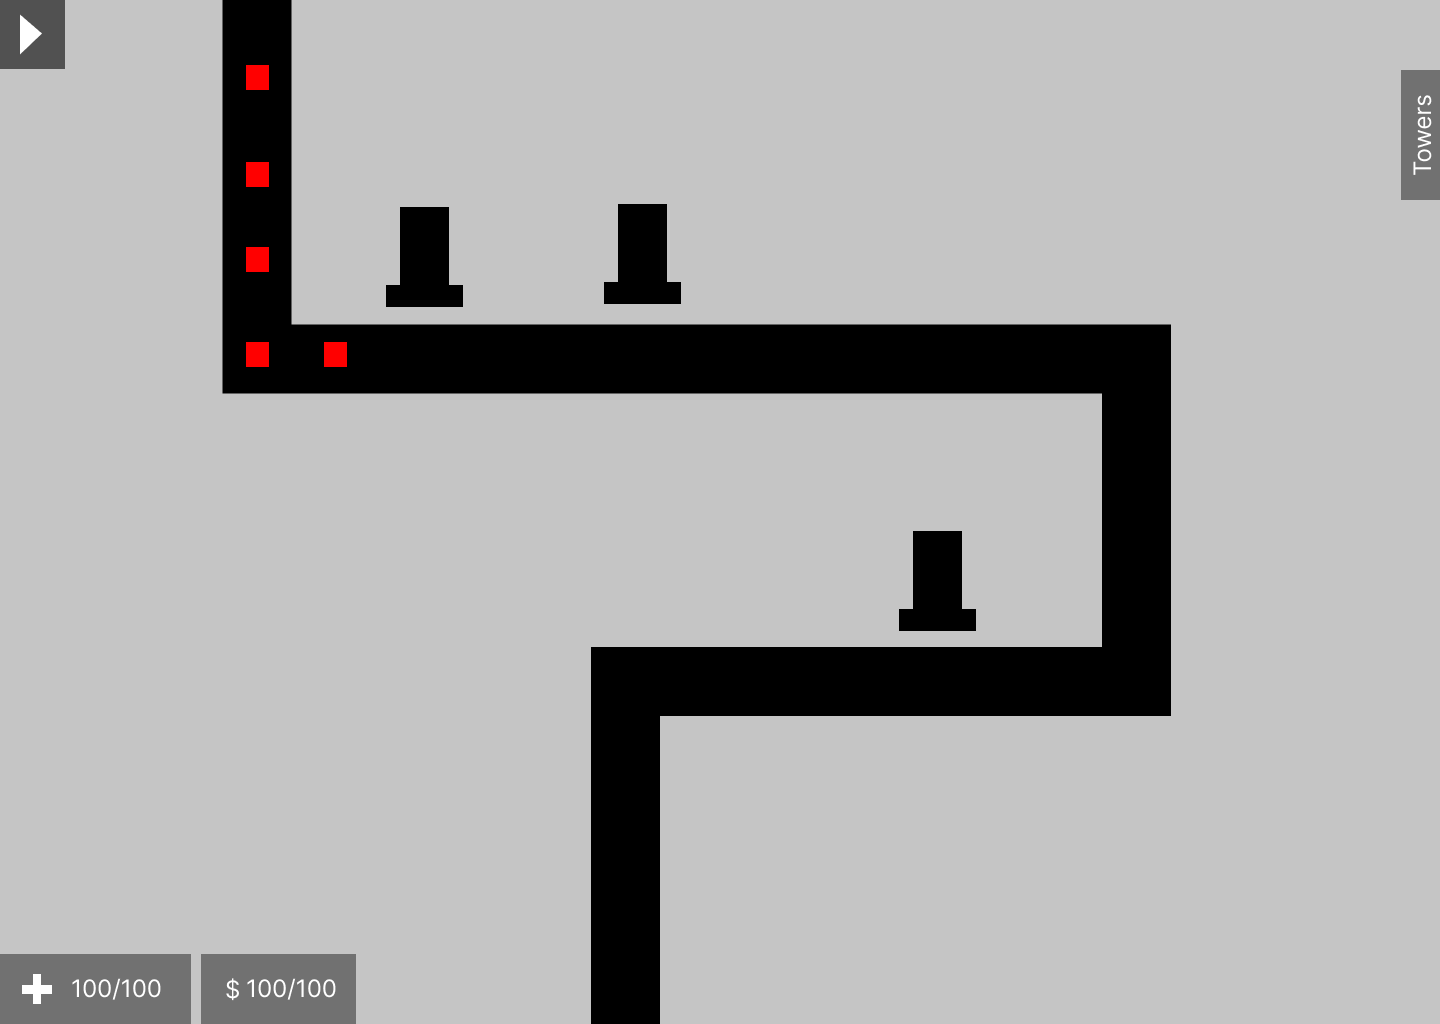
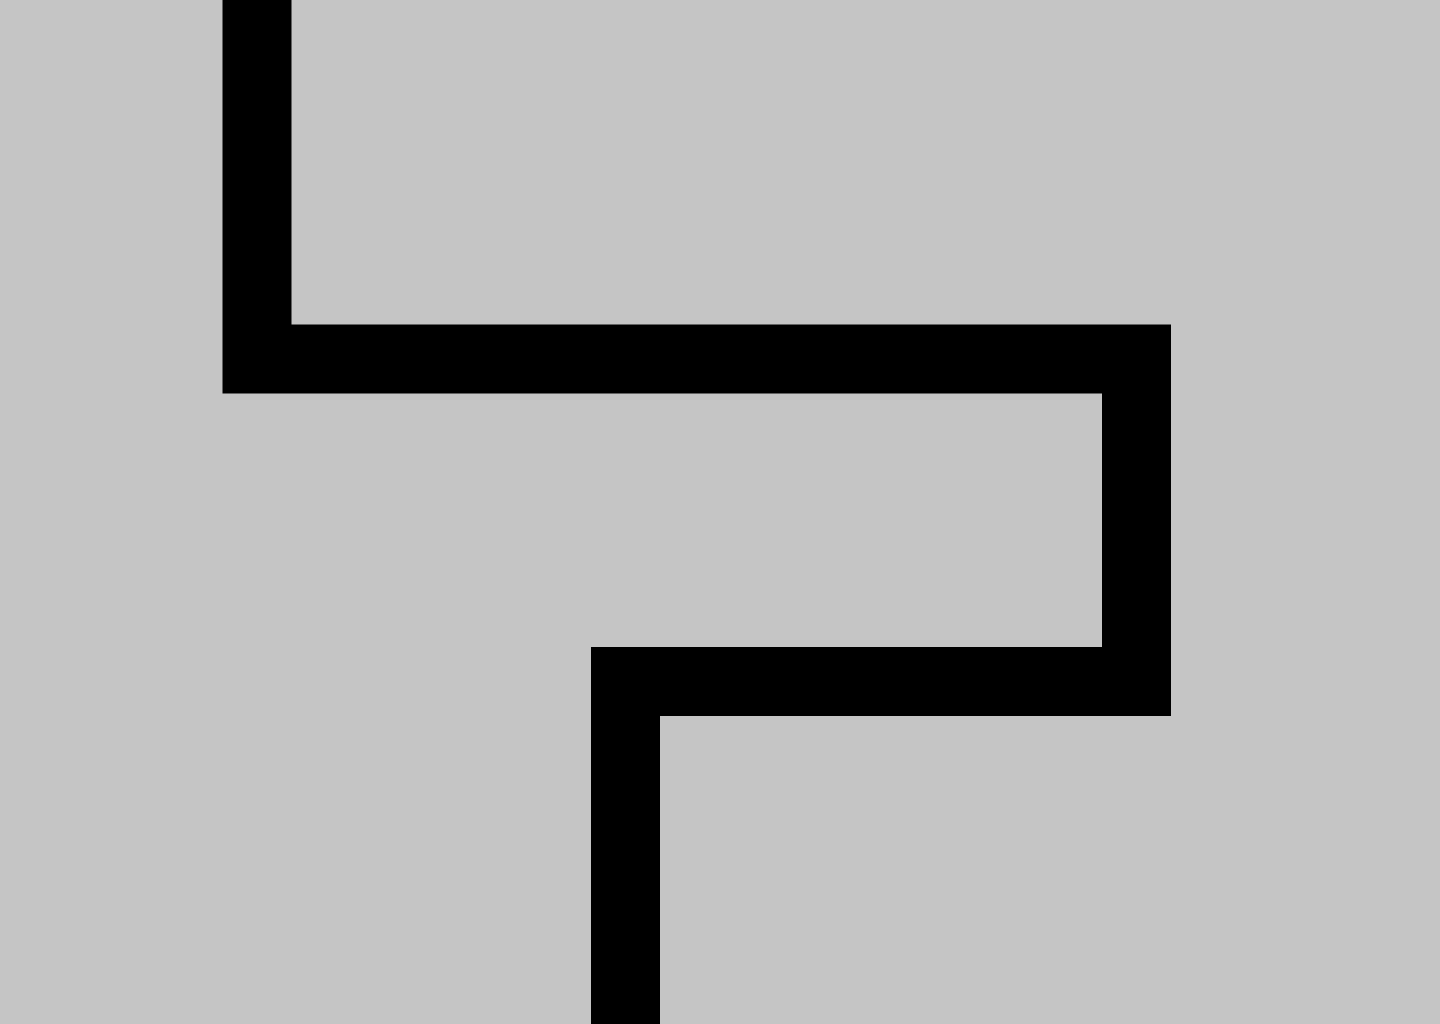
Refactor of main and view. New png.

diff --git a/core/src/main/java/com/IONA/TowerDefense/Main.java b/core/src/main/java/com/IONA/TowerDefense/Main.java
@@ -3,94 +3,44 @@ package com.IONA.TowerDefense;
 import com.IONA.TowerDefense.controller.GameController;
 import com.IONA.TowerDefense.controller.GameUpdater;
 import com.IONA.TowerDefense.model.GameModel;
-import com.IONA.TowerDefense.model.Path;
-import com.IONA.TowerDefense.model.Projectile;
 import com.IONA.TowerDefense.view.Draw;
-import com.IONA.TowerDefense.model.Waves;
 import com.badlogic.gdx.ApplicationAdapter;
-import com.badlogic.gdx.graphics.Texture;
-import com.badlogic.gdx.graphics.g2d.SpriteBatch;
-import com.badlogic.gdx.utils.ScreenUtils;
-import com.badlogic.gdx.graphics.g2d.BitmapFont;
 
-/** {@link com.badlogic.gdx.ApplicationListener} implementation shared by all platforms. */
 public class Main extends ApplicationAdapter {
-    private SpriteBatch batch;
-    private Texture image;
-    private BitmapFont font;
     public GameController controller;
     public GameUpdater updater;
-    public Draw painter;
     public GameModel model;
-    public Path path;
-
+    public Draw painter; // view
 
     @Override
     public void create() {
-
-        //Waves waves = Waves.load();
-        //waves.printAll();
-       // batch = new SpriteBatch();
-       // image = new Texture("libgdx.png");
-       // font = new BitmapFont();
-        path = new Path();
+        model = new GameModel();
         updater = new GameUpdater();
-        model = new GameModel(path);
         painter = new Draw(model);
+        painter.create();
         controller = new GameController(model, painter);
-        batch = new SpriteBatch();
-        image = new Texture("libgdx.png");
-        font = new BitmapFont();
-    }
-
-    @Override
-    public void resize(int width, int height) {
-        // If the window is minimized on a desktop (LWJGL3) platform, width and height are 0, which causes problems.
-        // In that case, we don't resize anything, and wait for the window to be a normal size before updating.
-        if(width <= 0 || height <= 0) return;
-
-        // Resize your application here. The parameters represent the new window size.
     }
 
     @Override
     public void render() {
-        controller.update();
-        updater.update();
-
-        input();
-        logic();
-        draw();
-        ScreenUtils.clear(0.15f, 0.15f, 0.2f, 1f);
-        batch.begin();
-        font.draw(batch,"Tower Defense", 140, 210);
-        batch.end();
-    }
-
-    private void input() {
-
-    }
-
-    private void logic() {
-
-    }
-
-    private void draw() {
-
+        input();    // All input endast
+        logic();    // Uppdatera spelvärlden
+        draw();     // Måla
     }
 
     @Override
-    public void pause() {
-        // Invoked when your application is paused.
-    }
-
-    @Override
-    public void resume() {
-        // Invoked when your application is resumed after pause.
+    public void resize(int w, int h) {
+        if (w <= 0 || h <= 0) return;
+        painter.resize(w, h);
     }
 
     @Override
     public void dispose() {
-        batch.dispose();
-        image.dispose();
+        painter.dispose();
     }
+
+    private void input() { controller.update(); }
+    private void logic() { updater.update(); }
+    private void draw() {  painter.draw(); }
 }
+

diff --git a/core/src/main/java/com/IONA/TowerDefense/view/Draw.java b/core/src/main/java/com/IONA/TowerDefense/view/Draw.java
@@ -2,24 +2,57 @@ package com.IONA.TowerDefense.view;
 
 import com.IONA.TowerDefense.model.GameModel;
 import com.badlogic.gdx.graphics.Texture;
+import com.badlogic.gdx.graphics.g2d.BitmapFont;
+import com.badlogic.gdx.graphics.g2d.SpriteBatch;
+import com.badlogic.gdx.utils.ScreenUtils;
+import com.badlogic.gdx.utils.viewport.FitViewport;
 
 public class Draw {
+    private final GameModel model;
+    private SpriteBatch batch;
+    private Texture image;
+    private BitmapFont font;
+    private Texture BackgroundTexture;
+    private FitViewport viewport;
 
-    GameModel model;
-
-    public Draw(GameModel model){
-
+    public Draw(GameModel model) {
         this.model = model;
 
-
-    };
-
-    public void DrawBackground(){
-
     }
 
-    public void update(){
-
+    public void create() {
+        batch = new SpriteBatch();
+        image = new Texture("libgdx.png");
+        font = new BitmapFont();
+        this.BackgroundTexture = new Texture("ProtBackground.png");
+        viewport = new FitViewport(8,5);
+        // init camera/viewport här om du använder det
     }
 
+    public void resize(int w, int h) {
+        viewport.update(w, h, true);
+        // uppdatera viewport/kamera här om du har en
+    }
+
+    public void draw() {
+        ScreenUtils.clear(0.15f, 0.15f, 0.2f, 1f);
+        viewport.apply();
+        batch.setProjectionMatrix(viewport.getCamera().combined);
+        batch.begin();
+
+
+        batch.draw(BackgroundTexture, 0, 0, viewport.getWorldWidth(), viewport.getWorldHeight());
+
+        // rita saker från modellen: enemies, towers, projektiler, UI ...
+        // for (Enemy e : model.getEnemies()) { batch.draw(enemyTex, e.x, e.y); }
+
+        batch.end();
+    }
+
+    public void dispose() {
+        if (batch != null) batch.dispose();
+        if (image != null) image.dispose();
+        if (font != null) font.dispose();
+        // dispose fler texturer här
+    }
 }

diff --git a/core/src/main/java/com/IONA/TowerDefense/model/Enemy.java b/core/src/main/java/com/IONA/TowerDefense/model/Enemy.java
@@ -1,6 +1,6 @@
 package com.IONA.TowerDefense.model;
 
-import com.IONA.TowerDefense.view.GameFrame;
+//import com.IONA.TowerDefense.view.GameFrame;
 
 import javax.swing.*;
 import java.awt.*;
@@ -10,7 +10,6 @@ import static javax.swing.SwingConstants.*;
 
 public abstract class Enemy{
 
-    protected int dir = 0;
     protected int hp;
     protected int speed;
     protected int gold;
@@ -20,12 +19,12 @@ public abstract class Enemy{
     protected boolean completedPath;
     protected Direction dir;
     protected int segmentIndex = 0;
-    GameModel model;
 
-    public Enemy(int difficulty, GameModel model) {
-        coor = new Point(GameFrame.BORDERSIZE, 7*GameFrame.TILESIZE + GameFrame.BORDERSIZE);
+
+    public Enemy(int difficulty) {
+
         setHitBox();
-        this.model = model;
+
     }
 
     public Rectangle  getHitBox() {
@@ -73,11 +72,11 @@ public abstract class Enemy{
         hitBox = new Rectangle(coor.x + 9, coor.y + 9, 30, 30);
     }
 
-    public int getDir() {
+    public Direction getDir() {
         return dir;
     }
 
-    public void setDir(int dir) {
+    public void setDir(Direction dir) {
         this.dir = dir;
     }
 

diff --git a/core/src/main/java/com/IONA/TowerDefense/model/GameModel.java b/core/src/main/java/com/IONA/TowerDefense/model/GameModel.java
@@ -1,7 +1,7 @@
 package com.IONA.TowerDefense.model;
 
-import com.badlogic.gdx.graphics.Texture;
-import sun.tools.jconsole.Plotter;
+
+//import sun.tools.jconsole.Plotter;
 
 import java.awt.*;
 import java.util.ArrayList;
@@ -15,7 +15,7 @@ public class GameModel {
     private List<Enemy> enemies;
     private List<Projectile> projectiles;
     private Path path;
-    Texture background;
+
 
     private int resources; // Players resources
     private int lives; // Players health
@@ -26,13 +26,12 @@ public class GameModel {
     private boolean towerSelected = false;
     private Tower pendingTower = null;
 
-    public GameModel (Path path) {
+    public GameModel () {
         this.towers = new ArrayList<>();
         this.projectiles = new ArrayList<>();
-        this.path = path;
         this.resources = 100;
         this.score = 0;
-        this.background = new Texture("ProtBackground.png");
+
     }
 
     // Add and remove from list

diff --git a/core/src/main/java/com/IONA/TowerDefense/model/EnemyBasic.java b/core/src/main/java/com/IONA/TowerDefense/model/EnemyBasic.java
@@ -1,21 +1,22 @@
 package com.IONA.TowerDefense.model;
 
-import com.badlogic.gdx.graphics.Texture;
+
 
 import com.badlogic.gdx.Game;
 
 import java.awt.*;
 
-public class EnemyBasic extends Enemy{
-    Texture BasicTexture;
+public class EnemyBasic extends Enemy {
+
+
+
     public EnemyBasic(int difficulty){
-        super(difficulty);
-    public EnemyBasic(int difficulty, GameModel model){
-        super(difficulty, model);
-        hp = 400 + 200*difficulty;
-        speed = 100 + 50*difficulty;
-        gold = 5;
-        this.BasicTexture = new Texture("ProtTower.png");
-        //img
+            super(difficulty);
+            hp = 400 + 200 * difficulty;
+            speed = 100 + 50 * difficulty;
+            gold = 5;
+
+            //img
+        }
     }
-}
+

diff --git a/core/src/main/java/com/IONA/TowerDefense/model/Collisiongrid.java b/core/src/main/java/com/IONA/TowerDefense/model/Collisiongrid.java
@@ -1,3 +1,4 @@
+/*
 package com.IONA.TowerDefense.model;
 
 public class CollisionGrid {
@@ -6,14 +7,18 @@ public class CollisionGrid {
     protected int x;
     protected int y;
 
+
     public Collisiongrid(int width, int height, int x, int y) {
         this.width = width;
         this.height = height;
         this.x = x;
         this.y = y;
-    }
+
+
+
 
     public boolean withinRadius(Enemy enemy, Tower tower) {
     }
 }
 
+*/

diff --git a/core/src/main/java/com/IONA/TowerDefense/controller/WaveGenerator.java b/core/src/main/java/com/IONA/TowerDefense/controller/WaveGenerator.java
@@ -34,7 +34,7 @@ public class WaveGenerator {
                     if (GameDiff.equals("e")) {
 
                         if(e.type.equals("1")){
-                            Enemy enemy = new EnemyBasic(1);
+                            Enemy enemy = new EnemyBasic(0);
                             model.addEnemy(enemy);
 
                             //RenderEnemy renderEnemy = new RenderEnemy()

diff --git a/core/src/main/java/com/IONA/TowerDefense/model/EnemyTanky.java b/core/src/main/java/com/IONA/TowerDefense/model/EnemyTanky.java
@@ -3,8 +3,8 @@ package com.IONA.TowerDefense.model;
 import java.awt.*;
 
 public class EnemyTanky extends Enemy{
-    public EnemyTanky(int difficulty, GameModel model){
-        super(difficulty, model);
+    public EnemyTanky(int difficulty){
+        super(difficulty);
         hp = 1000 + 250 * difficulty;
         speed = 75 + 25 * difficulty;
         gold = 10;

diff --git a/core/src/main/java/com/IONA/TowerDefense/model/EnemyFast.java b/core/src/main/java/com/IONA/TowerDefense/model/EnemyFast.java
@@ -3,8 +3,8 @@ package com.IONA.TowerDefense.model;
 import java.awt.*;
 
 public class EnemyFast extends Enemy{
-    public EnemyFast(int difficulty, GameModel model){
-        super(difficulty, model);
+    public EnemyFast(int difficulty){
+        super(difficulty);
         hp = 100 + 100*difficulty;
         speed = 300 + 100*difficulty;
         gold = 10;
